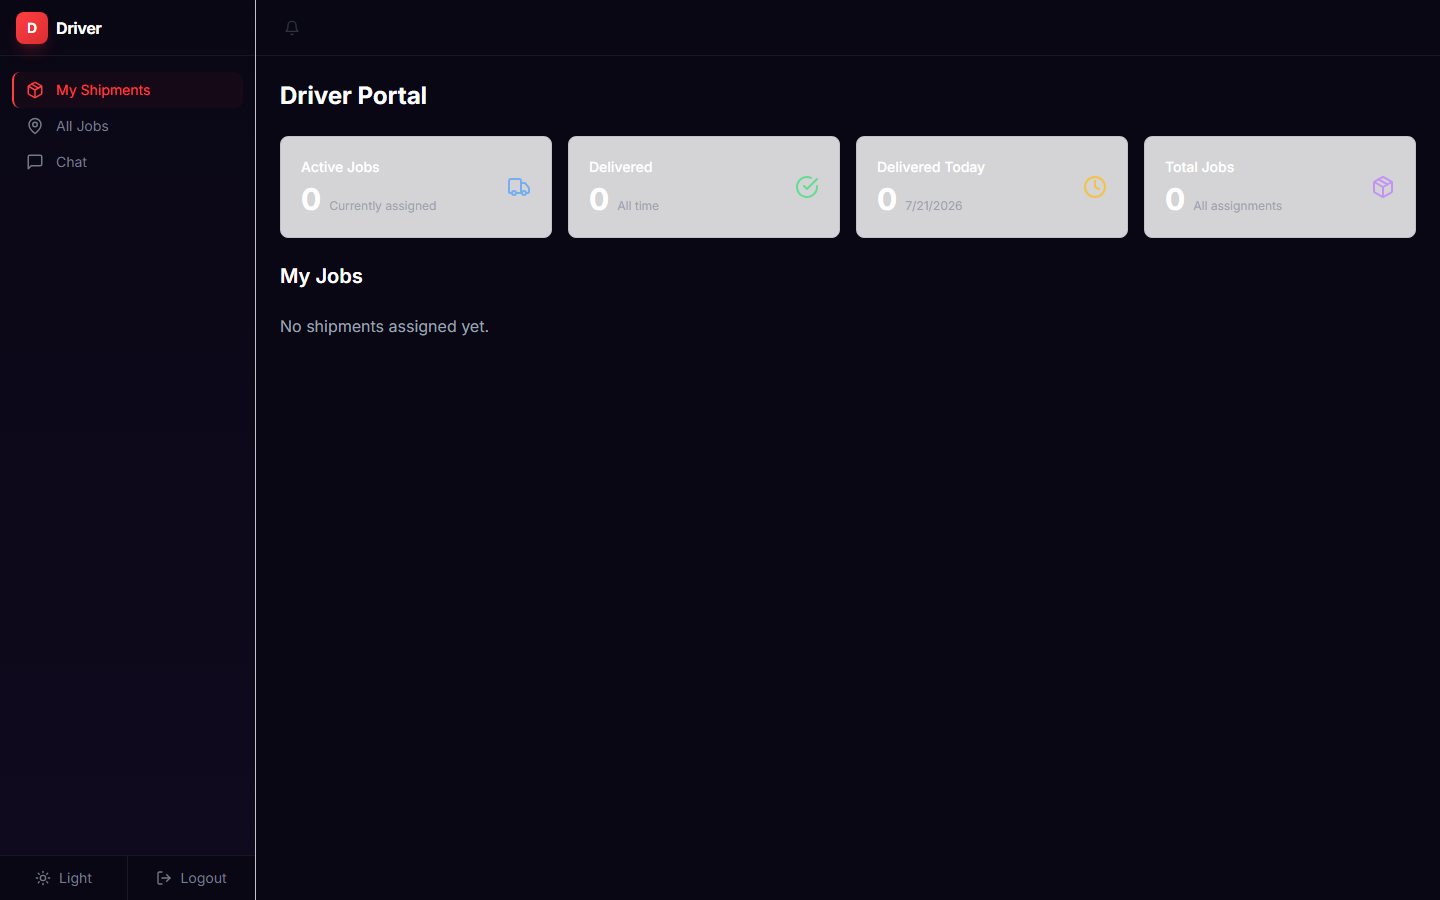
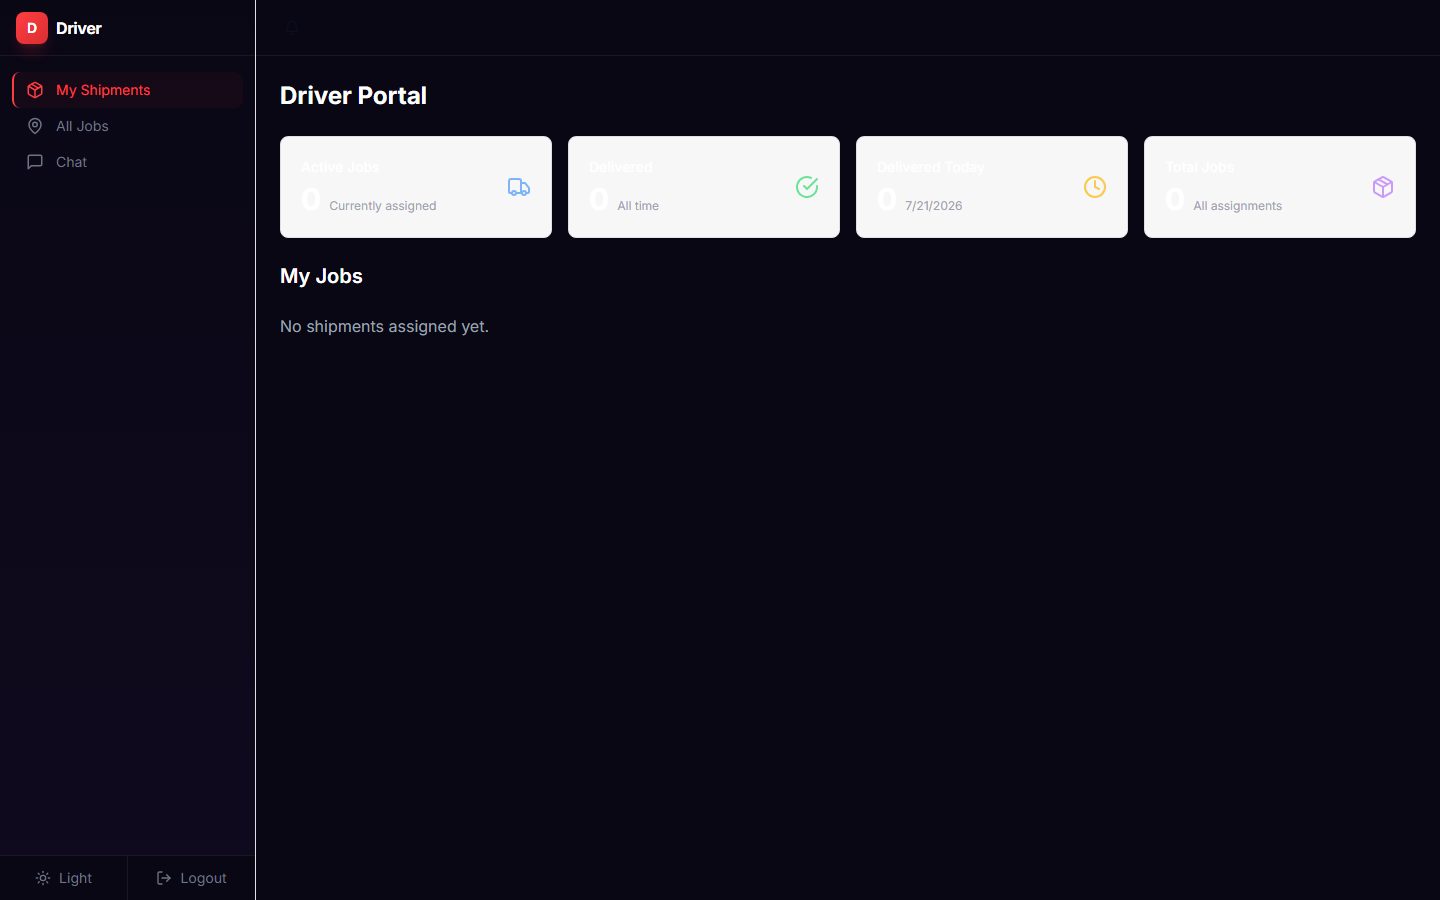
fix: admin login timeout, add chat widget tests, 41/41 pass

Changed region(s): [[0.1875, 0.1244, 1.0, 0.28]]

diff --git a/tests/quick_test.py b/tests/quick_test.py
@@ -24,6 +24,23 @@ with sync_playwright() as p:
         check(f"{label} page loads", r.status < 400, str(r.status))
         page.screenshot(path=f"C:\\Users\\hp\\Desktop\\Nexatrack\\tests\\screenshots\\prod-{label.lower()}.png", full_page=True)
 
+    # ── Chat widget ──
+    print("\n======== CHAT WIDGET ========")
+    page.goto(BASE, wait_until="networkidle")
+    check("Landing at /", page.url == BASE+"/", page.url)
+    chat_btn = page.locator('button[style*="fixed"]')
+    check("Chat button visible", chat_btn.is_visible())
+    chat_btn.click()
+    time.sleep(1.5)
+    input_f = page.locator('input[placeholder*="message"]')
+    check("Chat panel opens with input", input_f.is_visible())
+    input_f.fill("Test from landing page widget")
+    input_f.press("Enter")
+    time.sleep(3)
+    body = page.inner_text("body")
+    check("Message sent and visible", "Test from landing page widget" in body)
+    page.screenshot(path=f"C:\\Users\\hp\\Desktop\\Nexatrack\\tests\\screenshots\\prod-chat-widget-sent.png", full_page=True)
+
     # ── Theme check ──
     print("\n======== THEME ========")
     page.evaluate("localStorage.setItem('nexatrack_theme','dark')")
@@ -47,17 +64,17 @@ with sync_playwright() as p:
         pg = cx.new_page()
         pg.goto(f"{BASE}/auth/login", wait_until="networkidle")
         try:
-            pg.wait_for_selector('input[type="email"]', timeout=15000)
+            pg.wait_for_selector('input[type="email"]', timeout=30000)
             pg.fill('input[type="email"]', email)
             pg.fill('input[type="password"]', PASS)
             pg.click('button[type="submit"]')
-            pg.wait_for_url(f"{BASE}/{slug}**", timeout=25000)
+            pg.wait_for_url(f"{BASE}/{slug}**", timeout=45000)
             final = pg.url
             check(f"{role} login lands on /{slug}", f"/{slug}" in final, f"got {final}")
             pg.screenshot(path=f"C:\\Users\\hp\\Desktop\\Nexatrack\\tests\\screenshots\\prod-{role}-after-login.png", full_page=True)
         except Exception as e:
             check(f"{role} login form", False, str(e)[:80])
-        cx.close(); time.sleep(0.5)
+        cx.close(); time.sleep(1)
 
     # ── Authenticated pages ──
     print("\n======== AUTH PAGES ========")